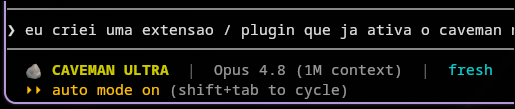
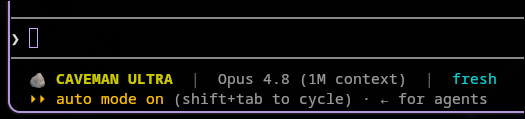
docs: statusline real + img 100% width

Changed region(s): [[0.0, 0.0, 1.0, 0.9633], [0.4039, 0.578, 0.7767, 0.7431], [0.8078, 0.578, 0.9631, 0.7431]]

diff --git a/README.md b/README.md
@@ -8,7 +8,7 @@ Extensão para o [Claude Code](https://claude.com/claude-code) que:
 2. **Mostra uma statusline** embaixo do chat com: `🪨 CAVEMAN ULTRA`, o modelo em uso,
    e a pasta que o Claude está enxergando agora.
 
-![statusline](docs/statusline.png)
+<img src="docs/statusline.png" alt="statusline" width="100%">
 
 ## Partes
 
